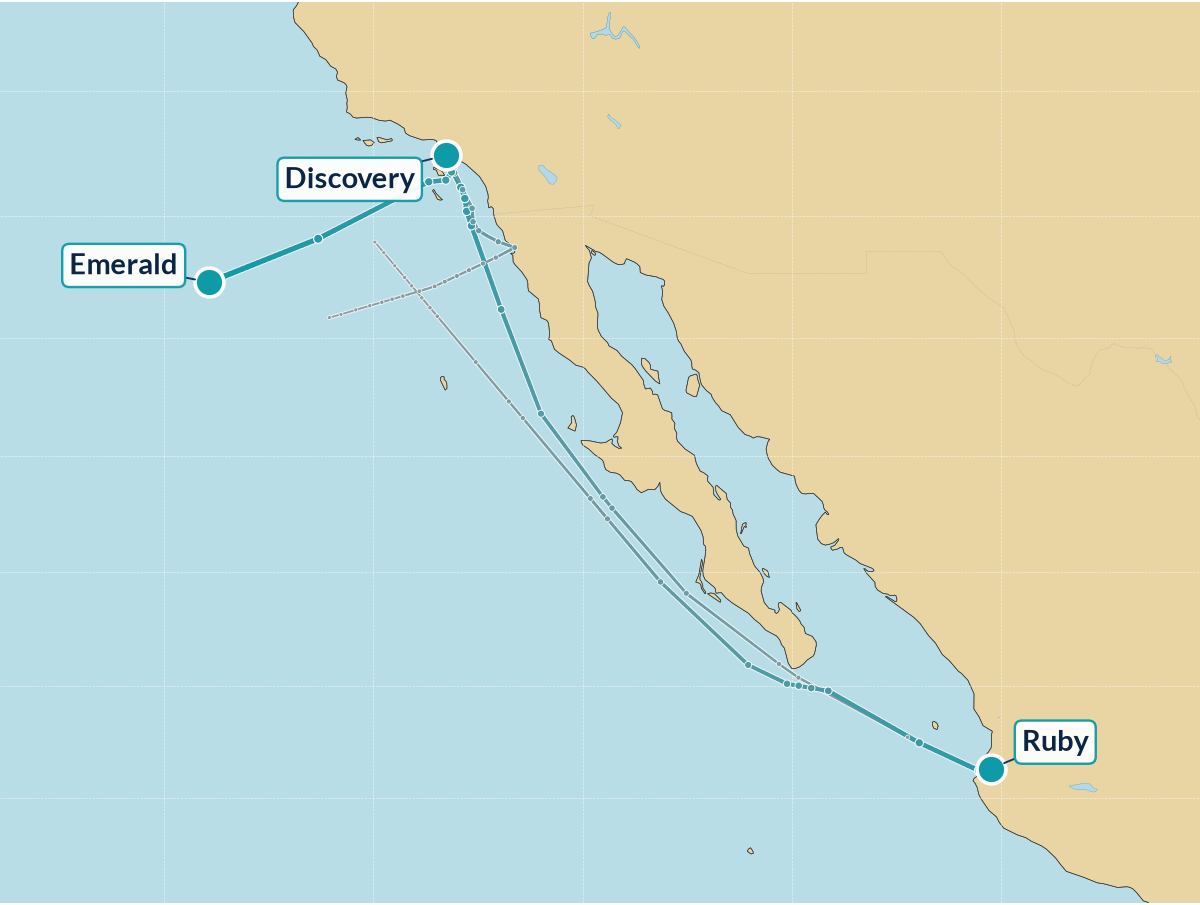
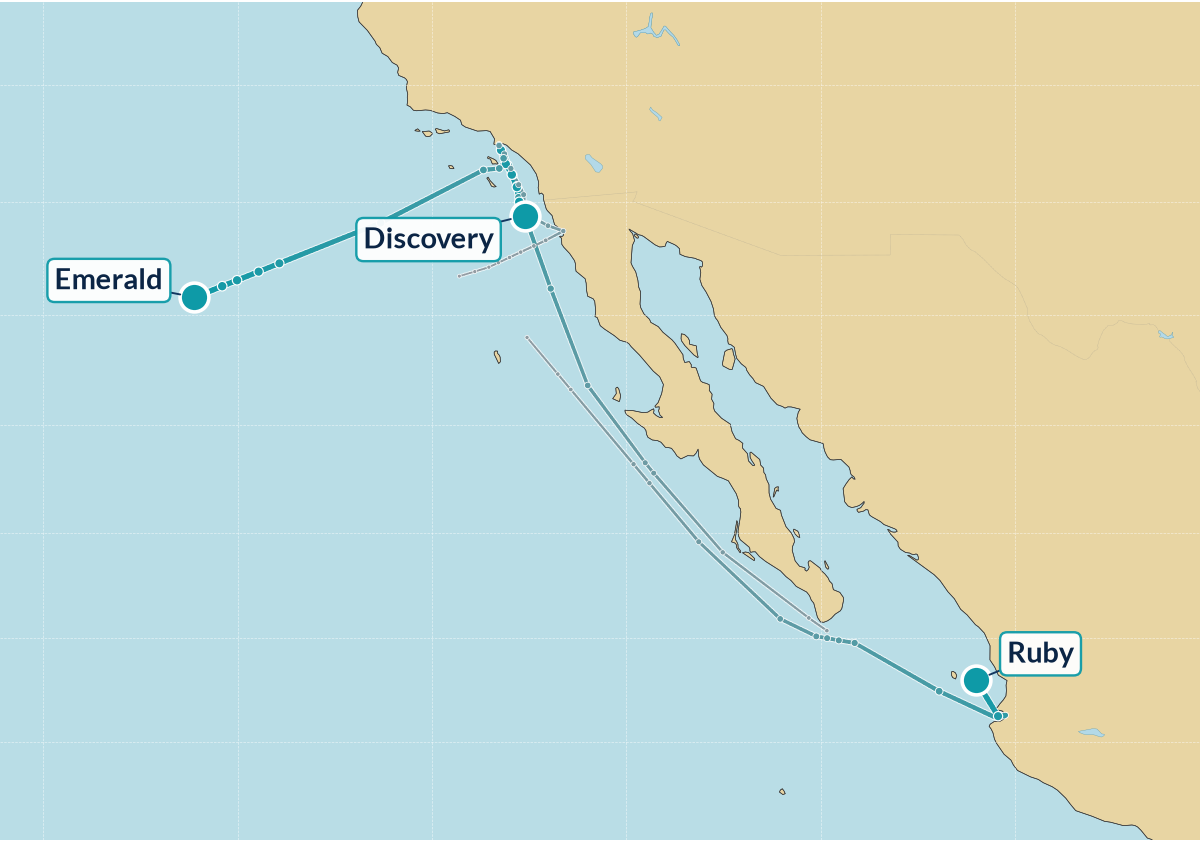
Update 10/17 23:00 PT

diff --git a/index.html b/index.html
@@ -1,46 +1,46 @@
 <!DOCTYPE html><html lang="en"><head><meta charset="utf-8"><meta name="viewport" content="width=device-width, initial-scale=1"><meta http-equiv="refresh" content="1800"><meta name="description" content="Live Princess Cruises fleet tracker"><title>Princess Patter — Saturday, October 17, 2026</title></head>
 <body style="margin:0;padding:0;background-color:#dee2e8;">
-<div style="display:none;max-height:0;overflow:hidden;opacity:0;color:#dee2e8;font-size:1px;line-height:1px;">Saturday, October 17, 2026 — 4:00pm PT | 17 ships | 12 at sea, 5 in port</div>
+<div style="display:none;max-height:0;overflow:hidden;opacity:0;color:#dee2e8;font-size:1px;line-height:1px;">Saturday, October 17, 2026 — 11:00pm PT | 17 ships | 13 at sea, 4 in port</div>
 <table role="presentation" width="100%" cellpadding="0" cellspacing="0" border="0" bgcolor="#dee2e8" style="background-color:#dee2e8;border-collapse:collapse;"><tr><td align="center" style="padding:16px 8px;">
 <table role="presentation" width="100%" cellpadding="0" cellspacing="0" border="0" bgcolor="#fdfdfb" style="width:100%;max-width:900px;background-color:#fdfdfb;border-collapse:collapse;border:1px solid #d6dae0;">
 <tr><td bgcolor="#1d3a6b" align="left" style="background-color:#1d3a6b;padding:24px 28px 24px 28px;"><div style="font-family:Georgia, 'Times New Roman', Times, serif;font-size:40px;line-height:46px;color:#ffffff;letter-spacing:0.5px;"><span style="color:#a8b6e2;">≋</span>&nbsp;Princess Patter</div></td></tr>
-<tr><td style="padding:0;"><table role="presentation" width="100%" cellpadding="0" cellspacing="0" border="0" style="border-collapse:collapse;"><tr><td height="5" bgcolor="#6a5aa8" style="background-color:#6a5aa8;height:5px;font-size:0;line-height:0;width:60%;">&nbsp;</td><td height="5" bgcolor="#2f6db5" style="background-color:#2f6db5;height:5px;font-size:0;line-height:0;width:40%;">&nbsp;</td></tr></table></td></tr><tr><td bgcolor="#1d3a6b" style="background:linear-gradient(#1d3a6b,#2f6db5);padding:10px 16px 14px;text-align:center;"><img src="regal.png?v=202610172201" alt="Regal Princess" style="width:100%;max-width:640px;height:auto;display:block;margin:0 auto;"></td></tr>
+<tr><td style="padding:0;"><table role="presentation" width="100%" cellpadding="0" cellspacing="0" border="0" style="border-collapse:collapse;"><tr><td height="5" bgcolor="#6a5aa8" style="background-color:#6a5aa8;height:5px;font-size:0;line-height:0;width:60%;">&nbsp;</td><td height="5" bgcolor="#2f6db5" style="background-color:#2f6db5;height:5px;font-size:0;line-height:0;width:40%;">&nbsp;</td></tr></table></td></tr><tr><td bgcolor="#1d3a6b" style="background:linear-gradient(#1d3a6b,#2f6db5);padding:10px 16px 14px;text-align:center;"><img src="regal.png?v=202610172300" alt="Regal Princess" style="width:100%;max-width:640px;height:auto;display:block;margin:0 auto;"></td></tr>
 <tr><td style="padding:22px 20px 6px 20px;">
-<div style="font-family:Georgia, 'Times New Roman', Times, serif;font-style:italic;font-size:20px;line-height:26px;color:#2f6db5;">Good afternoon!</div>
+<div style="font-family:Georgia, 'Times New Roman', Times, serif;font-style:italic;font-size:20px;line-height:26px;color:#2f6db5;">Good evening!</div>
 <div style="font-family:Georgia, 'Times New Roman', Times, serif;font-weight:bold;font-size:26px;line-height:32px;color:#1d3a6b;padding-top:6px;">Saturday, October 17, 2026</div>
-<div style="font-family:Helvetica, Arial, sans-serif;font-size:16px;line-height:22px;color:#2f6db5;padding-top:4px;">4:00pm PT | 17 ships | 12 at sea, 5 in port</div>
-</td></tr><tr><td style="padding:14px 20px 0 20px;"><div style="font-family:Georgia, 'Times New Roman', Times, serif;font-style:italic;font-weight:bold;font-size:18px;color:#295aa0;padding:0 4px 4px;border-bottom:1px solid #295aa0;">pacific map</div><a href="map.png?v=202610172201"><img src="map.png?v=202610172201" alt="Pacific fleet map" style="width:100%;height:auto;display:block;margin-top:8px;border-radius:12px;border:2px solid #c8dee2;"></a></td></tr>
+<div style="font-family:Helvetica, Arial, sans-serif;font-size:16px;line-height:22px;color:#2f6db5;padding-top:4px;">11:00pm PT | 17 ships | 13 at sea, 4 in port</div>
+</td></tr><tr><td style="padding:14px 20px 0 20px;"><div style="font-family:Georgia, 'Times New Roman', Times, serif;font-style:italic;font-weight:bold;font-size:18px;color:#295aa0;padding:0 4px 4px;border-bottom:1px solid #295aa0;">pacific map</div><a href="map.png?v=202610172300"><img src="map.png?v=202610172300" alt="Pacific fleet map" style="width:100%;height:auto;display:block;margin-top:8px;border-radius:12px;border:2px solid #c8dee2;"></a></td></tr>
 <tr><td style="padding:14px 20px 4px 20px;">
 <table role="presentation" width="100%" cellpadding="0" cellspacing="0" border="0" style="border-collapse:collapse;width:100%;font-family:Helvetica, Arial, sans-serif;font-size:15px;line-height:20px;color:#262c38;">
 <tr bgcolor="#2f6db5" style="background-color:#2f6db5;"><td style="font-size:14px;line-height:18px;font-weight:bold;color:#ffffff;text-align:left;padding:9px 8px;padding-left:10px;" colspan="2">Ship</td><td style="font-size:14px;line-height:18px;font-weight:bold;color:#ffffff;text-align:left;padding:9px 8px;">Where</td><td style="font-size:14px;line-height:18px;font-weight:bold;color:#ffffff;text-align:left;padding:9px 8px;">Next Port</td></tr>
 <tr><td colspan="4" style="padding:14px 4px 4px 4px;border-bottom:1px solid #295aa0;font-family:Georgia, 'Times New Roman', Times, serif;font-style:italic;font-weight:bold;font-size:18px;line-height:22px;color:#295aa0;">canada &amp; new england</td></tr>
-<tr bgcolor="#eef0f3" style="background-color:#eef0f3;"><td width="18" style="padding:7px 0 7px 8px;vertical-align:top;width:18px;color:#1a9a9a;font-size:18px;">&nbsp;</td><td style="padding:7px 8px;vertical-align:top;"><b style="color:#1d3a6b;">Majestic</b></td><td style="padding:7px 8px;vertical-align:top;">At Sea <span style="white-space:nowrap;font-size:12px;color:#707884;" title="Forecast high/low">🌙&thinsp;48°</span> <span style="font-size:12px;color:#707884;"><span style="white-space:nowrap;">🌊 3 ft</span> &middot; <span style="white-space:nowrap;">💨 N 20 kt</span> &middot; <span style="white-space:nowrap;">🚢 12.7 kn</span></span></td><td style="padding:7px 8px;vertical-align:top;">Newport <span style="white-space:nowrap;font-size:12px;color:#707884;" title="Forecast high/low">☁&thinsp;55°/45°</span> <span style="font-size:13px;color:#707884;">(10/18 4am)</span></td></tr>
-<tr bgcolor="#ffffff" style="background-color:#ffffff;"><td width="18" style="padding:7px 0 7px 8px;vertical-align:top;width:18px;color:#1a9a9a;font-size:18px;">&nbsp;</td><td style="padding:7px 8px;vertical-align:top;"><b style="color:#1d3a6b;">Sapphire</b></td><td style="padding:7px 8px;vertical-align:top;">At Sea <span style="white-space:nowrap;font-size:12px;color:#707884;" title="Forecast high/low">☁&thinsp;44°</span> <span style="font-size:12px;color:#707884;"><span style="white-space:nowrap;">🌊 5 ft</span> &middot; <span style="white-space:nowrap;">💨 NNW 20 kt</span> &middot; <span style="white-space:nowrap;">🚢 17.7 kn</span></span></td><td style="padding:7px 8px;vertical-align:top;">Sydney NS <span style="font-size:13px;color:#707884;">(10/18 5am)</span></td></tr>
+<tr bgcolor="#eef0f3" style="background-color:#eef0f3;"><td width="18" style="padding:7px 0 7px 8px;vertical-align:top;width:18px;color:#1a9a9a;font-size:18px;">&nbsp;</td><td style="padding:7px 8px;vertical-align:top;"><b style="color:#1d3a6b;">Majestic</b></td><td style="padding:7px 8px;vertical-align:top;">At Sea <span style="white-space:nowrap;font-size:12px;color:#707884;" title="Forecast high/low">☁&thinsp;51°</span> <span style="font-size:12px;color:#707884;"><span style="white-space:nowrap;">🌊 6 ft</span> &middot; <span style="white-space:nowrap;">💨 NNE 21 kt</span> &middot; <span style="white-space:nowrap;">🚢 12.5 kn</span></span></td><td style="padding:7px 8px;vertical-align:top;">Newport <span style="white-space:nowrap;font-size:12px;color:#707884;" title="Forecast high/low">☁&thinsp;55°/44°</span> <span style="font-size:13px;color:#707884;">(10/18 4am)</span></td></tr>
+<tr bgcolor="#ffffff" style="background-color:#ffffff;"><td width="18" style="padding:7px 0 7px 8px;vertical-align:top;width:18px;color:#1a9a9a;font-size:18px;">&nbsp;</td><td style="padding:7px 8px;vertical-align:top;"><b style="color:#1d3a6b;">Sapphire</b></td><td style="padding:7px 8px;vertical-align:top;">At Sea <span style="white-space:nowrap;font-size:12px;color:#707884;" title="Forecast high/low">☁&thinsp;44°</span> <span style="font-size:12px;color:#707884;"><span style="white-space:nowrap;">🌊 6 ft</span> &middot; <span style="white-space:nowrap;">💨 NW 19 kt</span> &middot; <span style="white-space:nowrap;">🚢 18.3 kn</span></span></td><td style="padding:7px 8px;vertical-align:top;">Sydney NS <span style="font-size:13px;color:#707884;">(10/18 5am)</span></td></tr>
 <tr><td colspan="4" style="padding:14px 4px 4px 4px;border-bottom:1px solid #295aa0;font-family:Georgia, 'Times New Roman', Times, serif;font-style:italic;font-weight:bold;font-size:18px;line-height:22px;color:#295aa0;">caribbean</td></tr>
-<tr bgcolor="#eef0f3" style="background-color:#eef0f3;"><td width="18" style="padding:7px 0 7px 8px;vertical-align:top;width:18px;color:#1a9a9a;font-size:18px;">&nbsp;</td><td style="padding:7px 8px;vertical-align:top;"><b style="color:#1d3a6b;">Caribbean</b></td><td style="padding:7px 8px;vertical-align:top;">At Sea <span style="white-space:nowrap;font-size:12px;color:#707884;" title="Forecast high/low">🌧&thinsp;77°</span> <span style="font-size:12px;color:#707884;"><span style="white-space:nowrap;">🌊 1 ft</span> &middot; <span style="white-space:nowrap;">💨 ESE 12 kt</span> &middot; <span style="white-space:nowrap;">🚢 16.1 kn</span></span></td><td style="padding:7px 8px;vertical-align:top;">Port Canaveral <span style="white-space:nowrap;font-size:12px;color:#707884;" title="Forecast high/low">☁&thinsp;80°/71°</span> <span style="font-size:13px;color:#707884;">(10/18 4am)</span></td></tr>
-<tr bgcolor="#ffffff" style="background-color:#ffffff;"><td width="18" style="padding:7px 0 7px 8px;vertical-align:top;width:18px;color:#1a9a9a;font-size:18px;">&nbsp;</td><td style="padding:7px 8px;vertical-align:top;"><b style="color:#1d3a6b;">Coral</b></td><td style="padding:7px 8px;vertical-align:top;">At Sea <span style="white-space:nowrap;font-size:12px;color:#707884;" title="Forecast high/low">🌧&thinsp;83°</span> <span style="font-size:12px;color:#707884;"><span style="white-space:nowrap;">🌊 4 ft</span> &middot; <span style="white-space:nowrap;">💨 ESE 8 kt</span> &middot; <span style="white-space:nowrap;">🚢 16.3 kn</span></span></td><td style="padding:7px 8px;vertical-align:top;">Philipsburg <span style="white-space:nowrap;font-size:12px;color:#707884;" title="Forecast high/low">🌦&thinsp;85°/81°</span> <span style="font-size:13px;color:#707884;">(10/18 6am)</span></td></tr>
-<tr bgcolor="#eef0f3" style="background-color:#eef0f3;"><td width="18" style="padding:7px 0 7px 8px;vertical-align:top;width:18px;color:#1a9a9a;font-size:18px;">&nbsp;</td><td style="padding:7px 8px;vertical-align:top;"><b style="color:#1d3a6b;">Regal</b></td><td style="padding:7px 8px;vertical-align:top;">At Sea <span style="white-space:nowrap;font-size:12px;color:#707884;" title="Forecast high/low">☁&thinsp;79°</span> <span style="font-size:12px;color:#707884;"><span style="white-space:nowrap;">🌊 1 ft</span> &middot; <span style="white-space:nowrap;">💨 SE 4 kt</span> &middot; <span style="white-space:nowrap;">🚢 16.8 kn</span></span></td><td style="padding:7px 8px;vertical-align:top;">Princess Cays <span style="font-size:13px;color:#707884;">(10/18 6am)</span></td></tr>
-<tr bgcolor="#ffffff" style="background-color:#ffffff;"><td width="18" style="padding:7px 0 7px 8px;vertical-align:top;width:18px;color:#1a9a9a;font-size:18px;">&nbsp;</td><td style="padding:7px 8px;vertical-align:top;"><b style="color:#1d3a6b;">Star</b></td><td style="padding:7px 8px;vertical-align:top;">At Sea <span style="white-space:nowrap;font-size:12px;color:#707884;" title="Forecast high/low">🌙&thinsp;83°</span> <span style="font-size:12px;color:#707884;"><span style="white-space:nowrap;">🌊 5 ft</span> &middot; <span style="white-space:nowrap;">💨 E 17 kt</span> &middot; <span style="white-space:nowrap;">🚢 19.5 kn</span></span></td><td style="padding:7px 8px;vertical-align:top;">Fort Lauderdale <span style="white-space:nowrap;font-size:12px;color:#707884;" title="Forecast high/low">🌦&thinsp;82°/79°</span> <span style="font-size:13px;color:#707884;">(10/20 3am)</span></td></tr>
+<tr bgcolor="#eef0f3" style="background-color:#eef0f3;"><td width="18" style="padding:7px 0 7px 8px;vertical-align:top;width:18px;color:#1a9a9a;font-size:18px;">&nbsp;</td><td style="padding:7px 8px;vertical-align:top;"><b style="color:#1d3a6b;">Caribbean</b></td><td style="padding:7px 8px;vertical-align:top;">At Sea <span style="white-space:nowrap;font-size:12px;color:#707884;" title="Forecast high/low">☁&thinsp;79°</span> <span style="font-size:12px;color:#707884;"><span style="white-space:nowrap;">🌊 8 ft</span> &middot; <span style="white-space:nowrap;">💨 NNE 29 kt</span> &middot; <span style="white-space:nowrap;">🚢 16.0 kn</span></span></td><td style="padding:7px 8px;vertical-align:top;">Port Canaveral <span style="white-space:nowrap;font-size:12px;color:#707884;" title="Forecast high/low">☁&thinsp;80°/70°</span> <span style="font-size:13px;color:#707884;">(10/18 4am)</span></td></tr>
+<tr bgcolor="#ffffff" style="background-color:#ffffff;"><td width="18" style="padding:7px 0 7px 8px;vertical-align:top;width:18px;color:#1a9a9a;font-size:18px;">&nbsp;</td><td style="padding:7px 8px;vertical-align:top;"><b style="color:#1d3a6b;">Coral</b></td><td style="padding:7px 8px;vertical-align:top;">At Sea <span style="white-space:nowrap;font-size:12px;color:#707884;" title="Forecast high/low">🌙&thinsp;84°</span> <span style="font-size:12px;color:#707884;"><span style="white-space:nowrap;">🌊 4 ft</span> &middot; <span style="white-space:nowrap;">💨 SE 8 kt</span> &middot; <span style="white-space:nowrap;">🚢 15.8 kn</span></span></td><td style="padding:7px 8px;vertical-align:top;">Philipsburg <span style="white-space:nowrap;font-size:12px;color:#707884;" title="Forecast high/low">🌦&thinsp;85°/81°</span> <span style="font-size:13px;color:#707884;">(10/18 6am)</span></td></tr>
+<tr bgcolor="#eef0f3" style="background-color:#eef0f3;"><td width="18" style="padding:7px 0 7px 8px;vertical-align:top;width:18px;color:#1a9a9a;font-size:18px;">&nbsp;</td><td style="padding:7px 8px;vertical-align:top;"><b style="color:#1d3a6b;">Regal</b></td><td style="padding:7px 8px;vertical-align:top;">At Sea <span style="white-space:nowrap;font-size:12px;color:#707884;" title="Forecast high/low">☁&thinsp;83°</span> <span style="font-size:12px;color:#707884;"><span style="white-space:nowrap;">🌊 2 ft</span> &middot; <span style="white-space:nowrap;">💨 N 8 kt</span> &middot; <span style="white-space:nowrap;">🚢 17.6 kn</span></span></td><td style="padding:7px 8px;vertical-align:top;">Princess Cays <span style="font-size:13px;color:#707884;">(10/18 6am)</span></td></tr>
+<tr bgcolor="#ffffff" style="background-color:#ffffff;"><td width="18" style="padding:7px 0 7px 8px;vertical-align:top;width:18px;color:#1a9a9a;font-size:18px;">&nbsp;</td><td style="padding:7px 8px;vertical-align:top;"><b style="color:#1d3a6b;">Star</b></td><td style="padding:7px 8px;vertical-align:top;">At Sea <span style="white-space:nowrap;font-size:12px;color:#707884;" title="Forecast high/low">🌙&thinsp;85°</span> <span style="font-size:12px;color:#707884;"><span style="white-space:nowrap;">🌊 5 ft</span> &middot; <span style="white-space:nowrap;">💨 E 16 kt</span> &middot; <span style="white-space:nowrap;">🚢 19.3 kn</span></span></td><td style="padding:7px 8px;vertical-align:top;">Fort Lauderdale <span style="white-space:nowrap;font-size:12px;color:#707884;" title="Forecast high/low">🌦&thinsp;82°/79°</span> <span style="font-size:13px;color:#707884;">(10/20 3am)</span></td></tr>
 <tr><td colspan="4" style="padding:14px 4px 4px 4px;border-bottom:1px solid #295aa0;font-family:Georgia, 'Times New Roman', Times, serif;font-style:italic;font-weight:bold;font-size:18px;line-height:22px;color:#295aa0;">hawaii</td></tr>
-<tr bgcolor="#eef0f3" style="background-color:#eef0f3;"><td width="18" style="padding:7px 0 7px 8px;vertical-align:top;width:18px;color:#1a9a9a;font-size:18px;">&nbsp;</td><td style="padding:7px 8px;vertical-align:top;"><b style="color:#1d3a6b;">Emerald</b></td><td style="padding:7px 8px;vertical-align:top;">At Sea <span style="white-space:nowrap;font-size:12px;color:#707884;" title="Forecast high/low">☁&thinsp;66°</span> <span style="font-size:12px;color:#707884;"><span style="white-space:nowrap;">🌊 6 ft</span> &middot; <span style="white-space:nowrap;">💨 NNE 12 kt</span> &middot; <span style="white-space:nowrap;">🚢 17.5 kn</span></span></td><td style="padding:7px 8px;vertical-align:top;">Hilo <span style="white-space:nowrap;font-size:12px;color:#707884;" title="Forecast high/low">🌦&thinsp;77°/65°</span> <span style="font-size:13px;color:#707884;">(10/22 11am)</span></td></tr>
+<tr bgcolor="#eef0f3" style="background-color:#eef0f3;"><td width="18" style="padding:7px 0 7px 8px;vertical-align:top;width:18px;color:#1a9a9a;font-size:18px;">&nbsp;</td><td style="padding:7px 8px;vertical-align:top;"><b style="color:#1d3a6b;">Emerald</b></td><td style="padding:7px 8px;vertical-align:top;">At Sea <span style="white-space:nowrap;font-size:12px;color:#707884;" title="Forecast high/low">🌙&thinsp;67°</span> <span style="font-size:12px;color:#707884;"><span style="white-space:nowrap;">🌊 6 ft</span> &middot; <span style="white-space:nowrap;">💨 NNE 12 kt</span> &middot; <span style="white-space:nowrap;">🚢 17.6 kn</span></span></td><td style="padding:7px 8px;vertical-align:top;">Hilo <span style="white-space:nowrap;font-size:12px;color:#707884;" title="Forecast high/low">🌦&thinsp;77°/65°</span> <span style="font-size:13px;color:#707884;">(10/22 11am)</span></td></tr>
 <tr><td colspan="4" style="padding:14px 4px 4px 4px;border-bottom:1px solid #295aa0;font-family:Georgia, 'Times New Roman', Times, serif;font-style:italic;font-weight:bold;font-size:18px;line-height:22px;color:#295aa0;">mexican riviera</td></tr>
-<tr bgcolor="#eef0f3" style="background-color:#eef0f3;"><td width="18" style="padding:7px 0 7px 8px;vertical-align:top;width:18px;color:#1a9a9a;font-size:18px;">&nbsp;</td><td style="padding:7px 8px;vertical-align:top;"><b style="color:#1d3a6b;">Discovery</b></td><td style="padding:7px 8px;vertical-align:top;">Los Angeles <span style="white-space:nowrap;font-size:12px;color:#707884;" title="Forecast high/low">🌙&thinsp;75°</span> <span style="font-size:13px;color:#707884;">(3pm)</span></td><td style="padding:7px 8px;vertical-align:top;">Cabo San Lucas <span style="white-space:nowrap;font-size:12px;color:#707884;" title="Forecast high/low">🌦&thinsp;91°/77°</span> <span style="font-size:13px;color:#707884;">(10/19 12pm)</span></td></tr>
-<tr bgcolor="#ffffff" style="background-color:#ffffff;"><td width="18" style="padding:7px 0 7px 8px;vertical-align:top;width:18px;color:#1a9a9a;font-size:18px;">&nbsp;</td><td style="padding:7px 8px;vertical-align:top;"><b style="color:#1d3a6b;">Ruby</b></td><td style="padding:7px 8px;vertical-align:top;">Puerto Vallarta <span style="white-space:nowrap;font-size:12px;color:#707884;" title="Forecast high/low">☁&thinsp;78°</span> <span style="font-size:13px;color:#707884;">(5pm)</span></td><td style="padding:7px 8px;vertical-align:top;">Manzanillo <span style="white-space:nowrap;font-size:12px;color:#707884;" title="Forecast high/low">⛈&thinsp;84°/72°</span> <span style="font-size:13px;color:#707884;">(10/18 6am)</span></td></tr>
+<tr bgcolor="#eef0f3" style="background-color:#eef0f3;"><td width="18" style="padding:7px 0 7px 8px;vertical-align:top;width:18px;color:#1a9a9a;font-size:18px;">&nbsp;</td><td style="padding:7px 8px;vertical-align:top;"><b style="color:#1d3a6b;">Discovery</b></td><td style="padding:7px 8px;vertical-align:top;">At Sea <span style="white-space:nowrap;font-size:12px;color:#707884;" title="Forecast high/low">🌙&thinsp;73°</span> <span style="font-size:12px;color:#707884;"><span style="white-space:nowrap;">🌊 4 ft</span> &middot; <span style="white-space:nowrap;">💨 SSE 6 kt</span> &middot; <span style="white-space:nowrap;">🚢 21.4 kn</span></span></td><td style="padding:7px 8px;vertical-align:top;">Cabo San Lucas <span style="white-space:nowrap;font-size:12px;color:#707884;" title="Forecast high/low">🌦&thinsp;91°/77°</span> <span style="font-size:13px;color:#707884;">(10/19 12pm)</span></td></tr>
+<tr bgcolor="#ffffff" style="background-color:#ffffff;"><td width="18" style="padding:7px 0 7px 8px;vertical-align:top;width:18px;color:#1a9a9a;font-size:18px;">&nbsp;</td><td style="padding:7px 8px;vertical-align:top;"><b style="color:#1d3a6b;">Ruby</b></td><td style="padding:7px 8px;vertical-align:top;">At Sea <span style="white-space:nowrap;font-size:12px;color:#707884;" title="Forecast high/low">☁&thinsp;88°</span> <span style="font-size:12px;color:#707884;"><span style="white-space:nowrap;">🌊 5 ft</span> &middot; <span style="white-space:nowrap;">💨 NNE 15 kt</span> &middot; <span style="white-space:nowrap;">🚢 12.1 kn</span></span></td><td style="padding:7px 8px;vertical-align:top;">Mazatlan <span style="white-space:nowrap;font-size:12px;color:#707884;" title="Forecast high/low">☁&thinsp;93°/77°</span> <span style="font-size:13px;color:#707884;">(~10/18)</span></td></tr>
 <tr><td colspan="4" style="padding:14px 4px 4px 4px;border-bottom:1px solid #295aa0;font-family:Georgia, 'Times New Roman', Times, serif;font-style:italic;font-weight:bold;font-size:18px;line-height:22px;color:#295aa0;">asia</td></tr>
-<tr bgcolor="#eef0f3" style="background-color:#eef0f3;"><td width="18" style="padding:7px 0 7px 8px;vertical-align:top;width:18px;color:#1a9a9a;font-size:18px;">&nbsp;</td><td style="padding:7px 8px;vertical-align:top;"><b style="color:#1d3a6b;">Diamond</b></td><td style="padding:7px 8px;vertical-align:top;">At Sea <span style="white-space:nowrap;font-size:12px;color:#707884;" title="Forecast high/low">☀&thinsp;78°</span> <span style="font-size:12px;color:#707884;"><span style="white-space:nowrap;">🌊 8 ft</span> &middot; <span style="white-space:nowrap;">💨 SE 17 kt</span> &middot; <span style="white-space:nowrap;">🚢 18.3 kn</span></span></td><td style="padding:7px 8px;vertical-align:top;">Yokohama <span style="white-space:nowrap;font-size:12px;color:#707884;" title="Forecast high/low">☀&thinsp;72°/55°</span> <span style="font-size:13px;color:#707884;">(10/18 2:30pm)</span></td></tr>
+<tr bgcolor="#eef0f3" style="background-color:#eef0f3;"><td width="18" style="padding:7px 0 7px 8px;vertical-align:top;width:18px;color:#1a9a9a;font-size:18px;">&nbsp;</td><td style="padding:7px 8px;vertical-align:top;"><b style="color:#1d3a6b;">Diamond</b></td><td style="padding:7px 8px;vertical-align:top;">At Sea <span style="white-space:nowrap;font-size:12px;color:#707884;" title="Forecast high/low">☀&thinsp;77°</span> <span style="font-size:12px;color:#707884;"><span style="white-space:nowrap;">🌊 8 ft</span> &middot; <span style="white-space:nowrap;">💨 ESE 18 kt</span> &middot; <span style="white-space:nowrap;">🚢 19.6 kn</span></span></td><td style="padding:7px 8px;vertical-align:top;">Yokohama <span style="white-space:nowrap;font-size:12px;color:#707884;" title="Forecast high/low">☀&thinsp;73°/55°</span> <span style="font-size:13px;color:#707884;">(10/18 2:30pm)</span></td></tr>
 <tr bgcolor="#ffffff" style="background-color:#ffffff;"><td width="18" style="padding:7px 0 7px 8px;vertical-align:top;width:18px;color:#1a9a9a;font-size:18px;">&nbsp;</td><td style="padding:7px 8px;vertical-align:top;"><b style="color:#1d3a6b;">Royal</b></td><td style="padding:7px 8px;vertical-align:top;">Singapore <span style="font-size:13px;color:#707884;">(Drydock)</span></td><td style="padding:7px 8px;vertical-align:top;">Drydock <span style="font-size:13px;color:#707884;">(to 11/1)</span></td></tr>
 <tr><td colspan="4" style="padding:14px 4px 4px 4px;border-bottom:1px solid #295aa0;font-family:Georgia, 'Times New Roman', Times, serif;font-style:italic;font-weight:bold;font-size:18px;line-height:22px;color:#295aa0;">australia &amp; new zealand</td></tr>
-<tr bgcolor="#eef0f3" style="background-color:#eef0f3;"><td width="18" style="padding:7px 0 7px 8px;vertical-align:top;width:18px;color:#1a9a9a;font-size:18px;">&nbsp;</td><td style="padding:7px 8px;vertical-align:top;"><b style="color:#1d3a6b;">Crown</b></td><td style="padding:7px 8px;vertical-align:top;">Fremantle <span style="white-space:nowrap;font-size:12px;color:#707884;" title="Forecast high/low">☁&thinsp;65°</span> <span style="font-size:13px;color:#707884;">(10/18 1am)</span></td><td style="padding:7px 8px;vertical-align:top;">Broome <span style="white-space:nowrap;font-size:12px;color:#707884;" title="Forecast high/low">☀&thinsp;87°/80°</span> <span style="font-size:13px;color:#707884;">(10/20 7pm)</span></td></tr>
+<tr bgcolor="#eef0f3" style="background-color:#eef0f3;"><td width="18" style="padding:7px 0 7px 8px;vertical-align:top;width:18px;color:#1a9a9a;font-size:18px;">&nbsp;</td><td style="padding:7px 8px;vertical-align:top;"><b style="color:#1d3a6b;">Crown</b></td><td style="padding:7px 8px;vertical-align:top;">Fremantle <span style="white-space:nowrap;font-size:12px;color:#707884;" title="Forecast high/low">☁&thinsp;64°</span> <span style="font-size:13px;color:#707884;">(10/18 1am)</span></td><td style="padding:7px 8px;vertical-align:top;">Broome <span style="white-space:nowrap;font-size:12px;color:#707884;" title="Forecast high/low">☀&thinsp;87°/80°</span> <span style="font-size:13px;color:#707884;">(10/20 7pm)</span></td></tr>
 <tr><td colspan="4" style="padding:14px 4px 4px 4px;border-bottom:1px solid #295aa0;font-family:Georgia, 'Times New Roman', Times, serif;font-style:italic;font-weight:bold;font-size:18px;line-height:22px;color:#295aa0;">mediterranean</td></tr>
-<tr bgcolor="#eef0f3" style="background-color:#eef0f3;"><td width="18" style="padding:7px 0 7px 8px;vertical-align:top;width:18px;color:#1a9a9a;font-size:18px;">&nbsp;</td><td style="padding:7px 8px;vertical-align:top;"><b style="color:#1d3a6b;">Enchanted</b></td><td style="padding:7px 8px;vertical-align:top;">At Sea <span style="white-space:nowrap;font-size:12px;color:#707884;" title="Forecast high/low">⛅&thinsp;64°</span> <span style="font-size:12px;color:#707884;"><span style="white-space:nowrap;">🌊 1 ft</span> &middot; <span style="white-space:nowrap;">💨 SW 6 kt</span> &middot; <span style="white-space:nowrap;">🚢 20.5 kn</span></span></td><td style="padding:7px 8px;vertical-align:top;">Katakolon <span style="font-size:13px;color:#707884;">(10/18 2am)</span></td></tr>
-<tr bgcolor="#ffffff" style="background-color:#ffffff;"><td width="18" style="padding:7px 0 7px 8px;vertical-align:top;width:18px;color:#1a9a9a;font-size:18px;">&nbsp;</td><td style="padding:7px 8px;vertical-align:top;"><b style="color:#1d3a6b;">Island</b></td><td style="padding:7px 8px;vertical-align:top;">At Sea <span style="white-space:nowrap;font-size:12px;color:#707884;" title="Forecast high/low">☁&thinsp;67°</span> <span style="font-size:12px;color:#707884;"><span style="white-space:nowrap;">🌊 3 ft</span> &middot; <span style="white-space:nowrap;">💨 SE 11 kt</span> &middot; <span style="white-space:nowrap;">🚢 10.0 kn</span></span></td><td style="padding:7px 8px;vertical-align:top;">Cartagena <span style="white-space:nowrap;font-size:12px;color:#707884;" title="Forecast high/low">🌦&thinsp;84°/76°</span> <span style="font-size:13px;color:#707884;">(10/18 10pm)</span></td></tr>
-<tr bgcolor="#eef0f3" style="background-color:#eef0f3;"><td width="18" style="padding:7px 0 7px 8px;vertical-align:top;width:18px;color:#1a9a9a;font-size:18px;">&nbsp;</td><td style="padding:7px 8px;vertical-align:top;"><b style="color:#1d3a6b;">Sun</b></td><td style="padding:7px 8px;vertical-align:top;">At Sea <span style="white-space:nowrap;font-size:12px;color:#707884;" title="Forecast high/low">🌙&thinsp;71°</span> <span style="font-size:12px;color:#707884;"><span style="white-space:nowrap;">🌊 1 ft</span> &middot; <span style="white-space:nowrap;">💨 SE 8 kt</span> &middot; <span style="white-space:nowrap;">🚢 15.3 kn</span></span></td><td style="padding:7px 8px;vertical-align:top;">Naples <span style="white-space:nowrap;font-size:12px;color:#707884;" title="Forecast high/low">☀&thinsp;72°/59°</span> <span style="font-size:13px;color:#707884;">(10/17 10pm)</span></td></tr>
+<tr bgcolor="#eef0f3" style="background-color:#eef0f3;"><td width="18" style="padding:7px 0 7px 8px;vertical-align:top;width:18px;color:#1a9a9a;font-size:18px;">&nbsp;</td><td style="padding:7px 8px;vertical-align:top;"><b style="color:#1d3a6b;">Enchanted</b></td><td style="padding:7px 8px;vertical-align:top;">At Sea <span style="white-space:nowrap;font-size:12px;color:#707884;" title="Forecast high/low">⛅&thinsp;64°</span> <span style="font-size:12px;color:#707884;"><span style="white-space:nowrap;">🌊 1 ft</span> &middot; <span style="white-space:nowrap;">💨 ENE 3 kt</span> &middot; <span style="white-space:nowrap;">🚢 16.1 kn</span></span></td><td style="padding:7px 8px;vertical-align:top;">Katakolon <span style="font-size:13px;color:#707884;">(10/18 2am)</span></td></tr>
+<tr bgcolor="#ffffff" style="background-color:#ffffff;"><td width="18" style="padding:7px 0 7px 8px;vertical-align:top;width:18px;color:#1a9a9a;font-size:18px;">&nbsp;</td><td style="padding:7px 8px;vertical-align:top;"><b style="color:#1d3a6b;">Island</b></td><td style="padding:7px 8px;vertical-align:top;">At Sea <span style="white-space:nowrap;font-size:12px;color:#707884;" title="Forecast high/low">⛈&thinsp;67°</span> <span style="font-size:12px;color:#707884;"><span style="white-space:nowrap;">🌊 1 ft</span> &middot; <span style="white-space:nowrap;">💨 ENE 3 kt</span> &middot; <span style="white-space:nowrap;">🚢 10.0 kn</span></span></td><td style="padding:7px 8px;vertical-align:top;">Cartagena <span style="white-space:nowrap;font-size:12px;color:#707884;" title="Forecast high/low">🌦&thinsp;84°/76°</span> <span style="font-size:13px;color:#707884;">(10/18 10pm)</span></td></tr>
+<tr bgcolor="#eef0f3" style="background-color:#eef0f3;"><td width="18" style="padding:7px 0 7px 8px;vertical-align:top;width:18px;color:#1a9a9a;font-size:18px;">&nbsp;</td><td style="padding:7px 8px;vertical-align:top;"><b style="color:#1d3a6b;">Sun</b></td><td style="padding:7px 8px;vertical-align:top;">Naples <span style="white-space:nowrap;font-size:12px;color:#707884;" title="Forecast high/low">☀&thinsp;59°</span> <span style="font-size:13px;color:#707884;">(10/18 9:30am)</span></td><td style="padding:7px 8px;vertical-align:top;">Chania <span style="white-space:nowrap;font-size:12px;color:#707884;" title="Forecast high/low">☁&thinsp;71°/59°</span> <span style="font-size:13px;color:#707884;">(10/19 10pm)</span></td></tr>
 <tr><td colspan="4" style="padding:14px 4px 4px 4px;border-bottom:1px solid #295aa0;font-family:Georgia, 'Times New Roman', Times, serif;font-style:italic;font-weight:bold;font-size:18px;line-height:22px;color:#295aa0;">northern europe</td></tr>
 <tr bgcolor="#eef0f3" style="background-color:#eef0f3;"><td width="18" style="padding:7px 0 7px 8px;vertical-align:top;width:18px;color:#1a9a9a;font-size:18px;">&nbsp;</td><td style="padding:7px 8px;vertical-align:top;"><b style="color:#1d3a6b;">Sky</b></td><td style="padding:7px 8px;vertical-align:top;">Oslo <span style="white-space:nowrap;font-size:12px;color:#707884;" title="Forecast high/low">🌙&thinsp;37°</span> <span style="font-size:13px;color:#707884;">(10/18)</span></td><td style="padding:7px 8px;vertical-align:top;">Stavanger <span style="white-space:nowrap;font-size:12px;color:#707884;" title="Forecast high/low">⛅&thinsp;53°/42°</span></td></tr>
 <tr><td colspan="4" style="padding:14px 4px 4px 4px;border-bottom:1px solid #295aa0;font-family:Georgia, 'Times New Roman', Times, serif;font-style:italic;font-weight:bold;font-size:18px;line-height:22px;color:#295aa0;">tahiti &amp; south pacific</td></tr>
-<tr bgcolor="#eef0f3" style="background-color:#eef0f3;"><td width="18" style="padding:7px 0 7px 8px;vertical-align:top;width:18px;color:#1a9a9a;font-size:18px;">&nbsp;</td><td style="padding:7px 8px;vertical-align:top;"><b style="color:#1d3a6b;">Grand</b></td><td style="padding:7px 8px;vertical-align:top;">At Sea <span style="white-space:nowrap;font-size:12px;color:#707884;" title="Forecast high/low">🌧&thinsp;84°</span> <span style="font-size:12px;color:#707884;"><span style="white-space:nowrap;">🌊 5 ft</span> &middot; <span style="white-space:nowrap;">💨 NNW 5 kt</span> &middot; <span style="white-space:nowrap;">🚢 17.2 kn</span></span></td><td style="padding:7px 8px;vertical-align:top;">Apia <span style="white-space:nowrap;font-size:12px;color:#707884;" title="Forecast high/low">🌦&thinsp;81°/70°</span> <span style="font-size:13px;color:#707884;">(10/20 12pm)</span></td></tr>
+<tr bgcolor="#eef0f3" style="background-color:#eef0f3;"><td width="18" style="padding:7px 0 7px 8px;vertical-align:top;width:18px;color:#1a9a9a;font-size:18px;">&nbsp;</td><td style="padding:7px 8px;vertical-align:top;"><b style="color:#1d3a6b;">Grand</b></td><td style="padding:7px 8px;vertical-align:top;">At Sea <span style="white-space:nowrap;font-size:12px;color:#707884;" title="Forecast high/low">🌧&thinsp;84°</span> <span style="font-size:12px;color:#707884;"><span style="white-space:nowrap;">🌊 6 ft</span> &middot; <span style="white-space:nowrap;">💨 W 8 kt</span> &middot; <span style="white-space:nowrap;">🚢 18.3 kn</span></span></td><td style="padding:7px 8px;vertical-align:top;">Apia <span style="white-space:nowrap;font-size:12px;color:#707884;" title="Forecast high/low">🌦&thinsp;81°/70°</span> <span style="font-size:13px;color:#707884;">(10/20 12pm)</span></td></tr>
 </table>
 </td></tr>
 <tr><td align="center" style="padding:22px 20px 6px 20px;font-family:Georgia, 'Times New Roman', Times, serif;font-style:italic;font-size:17px;line-height:24px;color:#295aa0;text-align:center;">“Bon voyage!”</td></tr>
-<tr><td align="center" style="padding:2px 20px 24px 20px;font-family:Helvetica, Arial, sans-serif;font-size:12px;line-height:18px;color:#707884;text-align:center;">Fleet positions from Pavlus AIS plus published schedules. Dates/times PT; ~ = AIS estimate.<br>Page updated 10/17/26 10:01pm PT after each fleet check-in.</td></tr>
+<tr><td align="center" style="padding:2px 20px 24px 20px;font-family:Helvetica, Arial, sans-serif;font-size:12px;line-height:18px;color:#707884;text-align:center;">Fleet positions from Pavlus AIS plus published schedules. Dates/times PT; ~ = AIS estimate.<br>Page updated 10/17/26 11:00pm PT after each fleet check-in.</td></tr>
 </table></td></tr></table></body></html>
